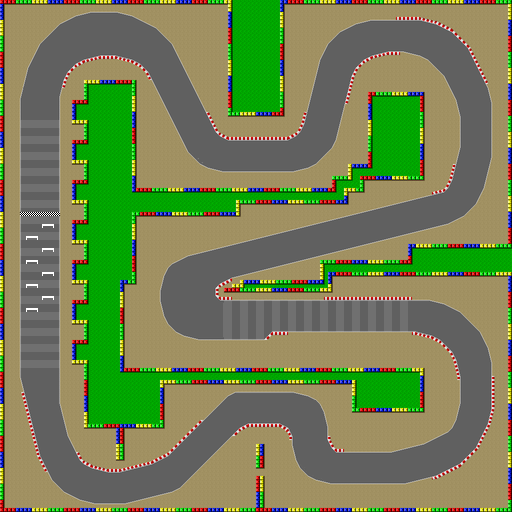
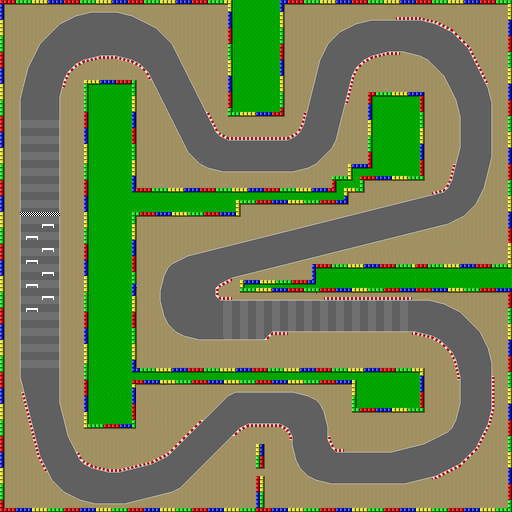
added wall collision on object and player

diff --git a/mario_kart/js/map.js b/mario_kart/js/map.js
@@ -1,4 +1,9 @@
-
+function WallObject(x,y,width,height){
+  this.x = x;
+  this.y = y;
+  this.width = width;
+  this.height = height;
+}
 
 function MapObject(type, texture, x, y, z, height, width, rotation) {
   this.vf = 0;
@@ -67,7 +72,7 @@ MapObject.prototype.setRelativeDist = function(){
   this.point.dimensionize();
 }
 
-MapObject.prototype.onCollision = function(x, y, z){
+MapObject.prototype.onPlayerCollision = function(x, y, z){
 //  if(this.type == SOLID || this.type == COIN || this.type == BLOCK) {
     if(this.point.screen.x + this.width*this.point.screen.scale > w/2-15 &&
       this.point.screen.x - this.width*this.point.screen.scale < w/2+15  &&
@@ -80,7 +85,25 @@ MapObject.prototype.onCollision = function(x, y, z){
     }
 //  }
   return false;
+}
 
+
+MapObject.prototype.onWallCollision = function(){
+//  if(this.type == SOLID || this.type == COIN || this.type == BLOCK) {
+    for(var wall in map.wallObjects)
+    {
+      //  console.log(map.wallObjects[wall].y +" "+ map.wallObjects[wall].height + " " + this.points[0].z +" "+ this.height)
+  //    console.log("wall found!");
+      if(map.wallObjects[wall].x < this.points[0].x + this.width &&
+         map.wallObjects[wall].x + map.wallObjects[wall].width > this.points[0].x &&
+         map.wallObjects[wall].y > this.points[0].z - this.height &&
+         map.wallObjects[wall].y + map.wallObjects[wall].height < this.points[0].z ) {
+      //     console.log("object hit!");
+          return wall;
+      }
+    }
+//  }
+  return -1;
 }
 MapObject.prototype.draw = function(){
 
@@ -138,7 +161,7 @@ function PlayerObject(type, texture, x, y, z, height, width, rotation, id) {
 //Map function from here:
 function Map(map) {
   this.mapObjects = [];
-  this.road_colors = [];
+  this.wallObjects = [];
 
   this.gravity = 600;
   this.deacceleration = 150;
@@ -163,6 +186,9 @@ Map.prototype.loadLevel1 = function() {
 
   //Add item to map
   this.mapObjects = level1;
+  this.wallObjects = level1_walls;
+
+
 //  this.spawnItem(new PlayerObject(PLAYER, MARIO_TEXTURE, 450, 0, -3700, 55, 30, 5));
   //Add clouds
   this.setSkyProperties();
@@ -200,8 +226,8 @@ Map.prototype.checkColor = function(r, g, b) {
       return ROAD;
 
 
-  if(b>g+20 && b>r+20 || g>r+20 && g>b+20)
-    return WALL;
+/*  if(b>g+20 && b>r+20 || g>r+20 && g>b+20)
+    return WALL;*/
 
 
   return false;
@@ -214,10 +240,19 @@ Map.prototype.update = function(deltaTime) {
 
   for( var i = 0; i < this.mapObjects.length; ++i ) {
     if(this.mapObjects[ i ].vf > 0){
-      this.mapObjects[ i ].move((( Math.sin(this.mapObjects[ i ].vd) * this.mapObjects[ i ].vf )*-1)*deltaTime , 0, ((Math.cos(this.mapObjects[ i ].vd) * this.mapObjects[ i ].vf)*-1)*deltaTime)
+  //    console.log(this.mapObjects[ i ].vd);
+      var tempObject = this.mapObjects[ i ];
+      tempObject.move((( Math.sin(tempObject.vd) * tempObject.vf )*-1)*deltaTime , 0, ((Math.cos(tempObject.vd) * tempObject.vf)*-1)*deltaTime);
+
+      if(tempObject.onWallCollision() != -1) {
+        this.mapObjects.splice(i, 1);
+      //  this.mapObjects[ i ].vd += 0.5;
+      }
+
+      this.mapObjects[ i ].move((( Math.sin(this.mapObjects[ i ].vd) * this.mapObjects[ i ].vf )*-1)*deltaTime , 0, ((Math.cos(this.mapObjects[ i ].vd) * this.mapObjects[ i ].vf)*-1)*deltaTime);
 
     }
-    var type = this.mapObjects[ i ].onCollision(camera.x, camera.y, camera.z);
+    var type = this.mapObjects[ i ].onPlayerCollision(camera.x, camera.y, camera.z);
 
     //update coin objects
     if(type == COIN)
@@ -234,6 +269,25 @@ Map.prototype.update = function(deltaTime) {
       player.itemHit(ITEM_BANAN_PEEL);
     }
   }
+
+  this.onWallPlayerCollision();
+}
+
+Map.prototype.onWallPlayerCollision = function(){
+    for(var wall in map.wallObjects)
+    {
+      if(map.wallObjects[wall].x < (player.x - Math.sin(player.r)*220) + 50 &&
+         map.wallObjects[wall].x + map.wallObjects[wall].width > (player.x - Math.sin(player.r)*220)  &&
+         map.wallObjects[wall].y > (player.z - Math.cos(player.r)*200) - 100 &&
+         map.wallObjects[wall].y + map.wallObjects[wall].height < (player.z - Math.cos(player.r)*220)  ) {
+
+           console.log("hit!");
+           player.setCollision(true);
+          return wall;
+      }
+    }
+//  }
+  return -1;
 }
 
 Map.prototype.draw = function() {

diff --git a/mario_kart/js/levels/level1.js b/mario_kart/js/levels/level1.js
@@ -1,3 +1,21 @@
+var level1_walls = [
+                    //wall around map
+                    new WallObject(0, 0, 150, -7200),
+                    new WallObject(0, 0, 7200, -100),
+                    new WallObject(0, -7168, 7200, -62),
+                    new WallObject(7168, 0, 62, -7200),
+
+                    //Big square at start
+                    new WallObject((80*14.2), (80*14.2)*-1, (58*14.2), (346*14.2)*-1),
+
+                    //Big suare middle down
+                    new WallObject((227*14.0), (0*14.2)*-1, (56*14.0), (115*14.8)*-1),
+                  //  new WallObject((*14.2), (*14.2)*-1, (*14.2), (*14.2)*-1),
+
+
+
+                  ]
+
 var level1 = [
     new MapObject(SOLID, PIPE_TEXTURE, 500, 0, -1800, 100, 50),
     new MapObject(BLOCK, BRICK_TEXTURE, 2700, 0, -1650, 40, 40),

diff --git a/mario_kart/viewport.html b/mario_kart/viewport.html
@@ -1,7 +1,7 @@
 <html>
   <head>
     <link rel="stylesheet" href="default.css">
-    <script src="http://ec2-54-229-3-1.eu-west-1.compute.amazonaws.com:8000/socket.io/socket.io.js"></script>
+  <!--  <script src="http://ec2-54-229-3-1.eu-west-1.compute.amazonaws.com:8000/socket.io/socket.io.js"></script> -->
     <style>
       @font-face { font-family: mario; src: url('fonts/SuperMario256.ttf'); }
     </style>
